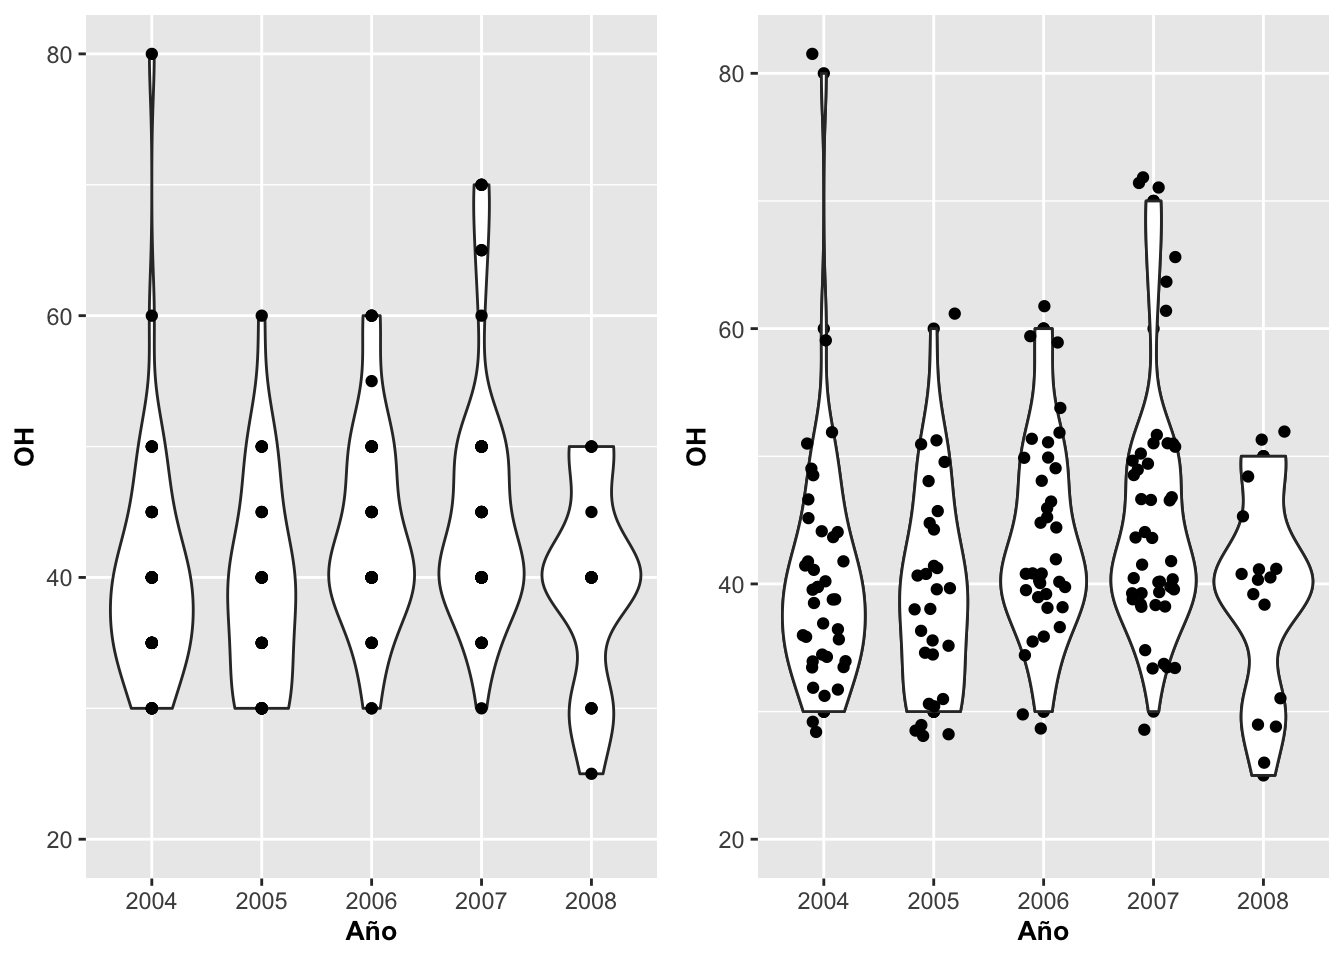
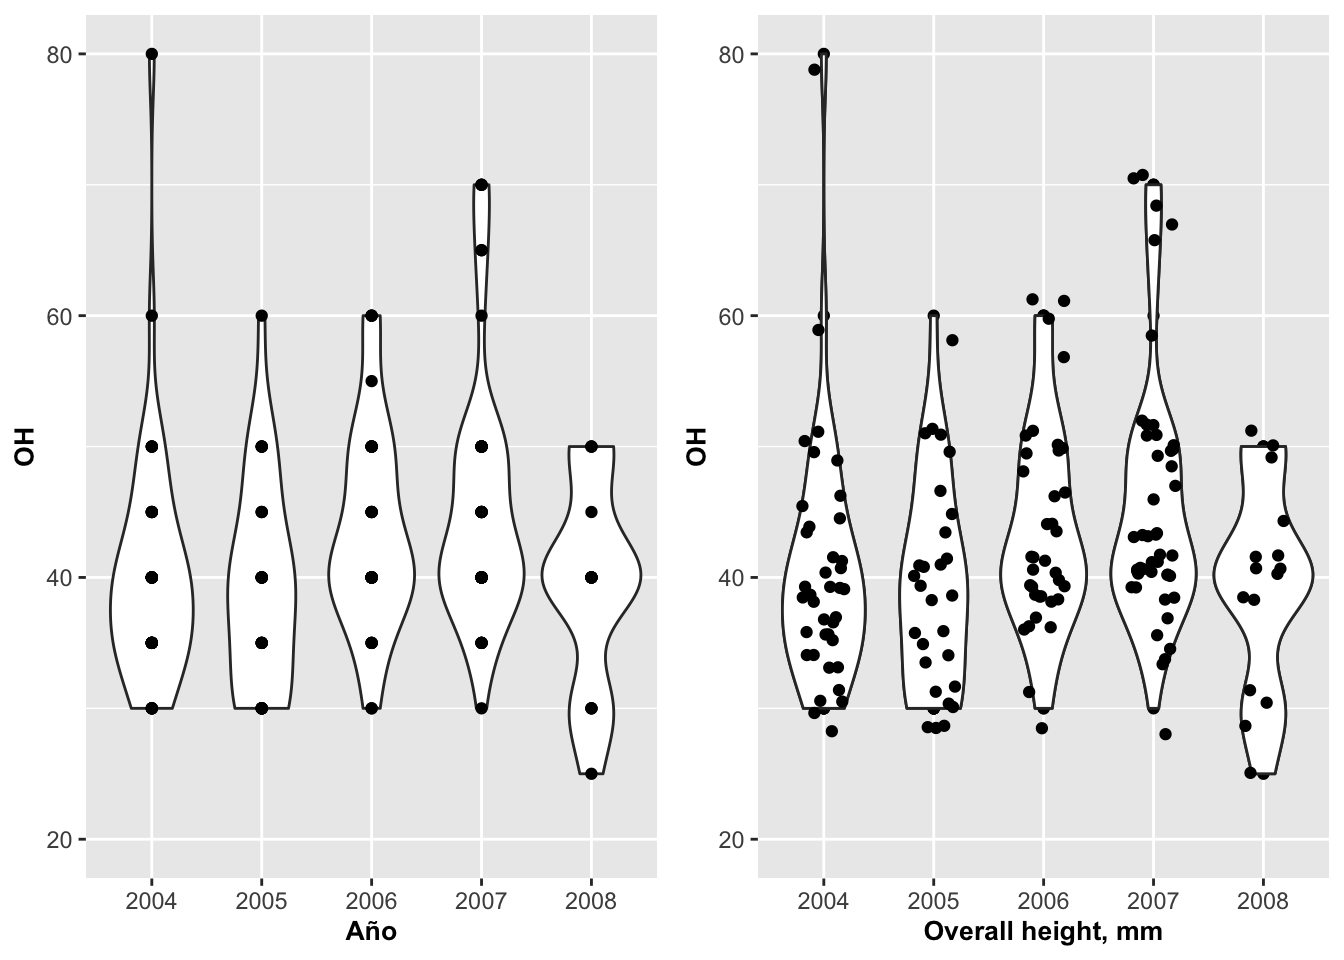
Color violin plot

diff --git a/G8_geom_boxplot_geom_violin.html b/G8_geom_boxplot_geom_violin.html
@@ -569,12 +569,12 @@ div.tocify {
 <span id="cb3-4"><a href="#cb3-4" aria-hidden="true" tabindex="-1"></a><span class="fu">library</span>(gt)</span>
 <span id="cb3-5"><a href="#cb3-5" aria-hidden="true" tabindex="-1"></a>dipodium<span class="ot">=</span><span class="fu">clean_names</span>(dipodium)</span>
 <span id="cb3-6"><a href="#cb3-6" aria-hidden="true" tabindex="-1"></a><span class="fu">gt</span>(<span class="fu">head</span>(dipodium))</span></code></pre></div>
-<div id="uzttgzlvhs" style="overflow-x:auto;overflow-y:auto;width:auto;height:auto;">
+<div id="miciyhmwxw" style="overflow-x:auto;overflow-y:auto;width:auto;height:auto;">
 <style>html {
   font-family: -apple-system, BlinkMacSystemFont, 'Segoe UI', Roboto, Oxygen, Ubuntu, Cantarell, 'Helvetica Neue', 'Fira Sans', 'Droid Sans', Arial, sans-serif;
 }
 
-#uzttgzlvhs .gt_table {
+#miciyhmwxw .gt_table {
   display: table;
   border-collapse: collapse;
   margin-left: auto;
@@ -599,7 +599,7 @@ div.tocify {
   border-left-color: #D3D3D3;
 }
 
-#uzttgzlvhs .gt_heading {
+#miciyhmwxw .gt_heading {
   background-color: #FFFFFF;
   text-align: center;
   border-bottom-color: #FFFFFF;
@@ -611,7 +611,7 @@ div.tocify {
   border-right-color: #D3D3D3;
 }
 
-#uzttgzlvhs .gt_title {
+#miciyhmwxw .gt_title {
   color: #333333;
   font-size: 125%;
   font-weight: initial;
@@ -623,7 +623,7 @@ div.tocify {
   border-bottom-width: 0;
 }
 
-#uzttgzlvhs .gt_subtitle {
+#miciyhmwxw .gt_subtitle {
   color: #333333;
   font-size: 85%;
   font-weight: initial;
@@ -635,13 +635,13 @@ div.tocify {
   border-top-width: 0;
 }
 
-#uzttgzlvhs .gt_bottom_border {
+#miciyhmwxw .gt_bottom_border {
   border-bottom-style: solid;
   border-bottom-width: 2px;
   border-bottom-color: #D3D3D3;
 }
 
-#uzttgzlvhs .gt_col_headings {
+#miciyhmwxw .gt_col_headings {
   border-top-style: solid;
   border-top-width: 2px;
   border-top-color: #D3D3D3;
@@ -656,7 +656,7 @@ div.tocify {
   border-right-color: #D3D3D3;
 }
 
-#uzttgzlvhs .gt_col_heading {
+#miciyhmwxw .gt_col_heading {
   color: #333333;
   background-color: #FFFFFF;
   font-size: 100%;
@@ -676,7 +676,7 @@ div.tocify {
   overflow-x: hidden;
 }
 
-#uzttgzlvhs .gt_column_spanner_outer {
+#miciyhmwxw .gt_column_spanner_outer {
   color: #333333;
   background-color: #FFFFFF;
   font-size: 100%;
@@ -688,15 +688,15 @@ div.tocify {
   padding-right: 4px;
 }
 
-#uzttgzlvhs .gt_column_spanner_outer:first-child {
+#miciyhmwxw .gt_column_spanner_outer:first-child {
   padding-left: 0;
 }
 
-#uzttgzlvhs .gt_column_spanner_outer:last-child {
+#miciyhmwxw .gt_column_spanner_outer:last-child {
   padding-right: 0;
 }
 
-#uzttgzlvhs .gt_column_spanner {
+#miciyhmwxw .gt_column_spanner {
   border-bottom-style: solid;
   border-bottom-width: 2px;
   border-bottom-color: #D3D3D3;
@@ -708,7 +708,7 @@ div.tocify {
   width: 100%;
 }
 
-#uzttgzlvhs .gt_group_heading {
+#miciyhmwxw .gt_group_heading {
   padding-top: 8px;
   padding-bottom: 8px;
   padding-left: 5px;
@@ -733,7 +733,7 @@ div.tocify {
   vertical-align: middle;
 }
 
-#uzttgzlvhs .gt_empty_group_heading {
+#miciyhmwxw .gt_empty_group_heading {
   padding: 0.5px;
   color: #333333;
   background-color: #FFFFFF;
@@ -748,15 +748,15 @@ div.tocify {
   vertical-align: middle;
 }
 
-#uzttgzlvhs .gt_from_md > :first-child {
+#miciyhmwxw .gt_from_md > :first-child {
   margin-top: 0;
 }
 
-#uzttgzlvhs .gt_from_md > :last-child {
+#miciyhmwxw .gt_from_md > :last-child {
   margin-bottom: 0;
 }
 
-#uzttgzlvhs .gt_row {
+#miciyhmwxw .gt_row {
   padding-top: 8px;
   padding-bottom: 8px;
   padding-left: 5px;
@@ -775,7 +775,7 @@ div.tocify {
   overflow-x: hidden;
 }
 
-#uzttgzlvhs .gt_stub {
+#miciyhmwxw .gt_stub {
   color: #333333;
   background-color: #FFFFFF;
   font-size: 100%;
@@ -788,7 +788,7 @@ div.tocify {
   padding-right: 5px;
 }
 
-#uzttgzlvhs .gt_stub_row_group {
+#miciyhmwxw .gt_stub_row_group {
   color: #333333;
   background-color: #FFFFFF;
   font-size: 100%;
@@ -802,11 +802,11 @@ div.tocify {
   vertical-align: top;
 }
 
-#uzttgzlvhs .gt_row_group_first td {
+#miciyhmwxw .gt_row_group_first td {
   border-top-width: 2px;
 }
 
-#uzttgzlvhs .gt_summary_row {
+#miciyhmwxw .gt_summary_row {
   color: #333333;
   background-color: #FFFFFF;
   text-transform: inherit;
@@ -816,16 +816,16 @@ div.tocify {
   padding-right: 5px;
 }
 
-#uzttgzlvhs .gt_first_summary_row {
+#miciyhmwxw .gt_first_summary_row {
   border-top-style: solid;
   border-top-color: #D3D3D3;
 }
 
-#uzttgzlvhs .gt_first_summary_row.thick {
+#miciyhmwxw .gt_first_summary_row.thick {
   border-top-width: 2px;
 }
 
-#uzttgzlvhs .gt_last_summary_row {
+#miciyhmwxw .gt_last_summary_row {
   padding-top: 8px;
   padding-bottom: 8px;
   padding-left: 5px;
@@ -835,7 +835,7 @@ div.tocify {
   border-bottom-color: #D3D3D3;
 }
 
-#uzttgzlvhs .gt_grand_summary_row {
+#miciyhmwxw .gt_grand_summary_row {
   color: #333333;
   background-color: #FFFFFF;
   text-transform: inherit;
@@ -845,7 +845,7 @@ div.tocify {
   padding-right: 5px;
 }
 
-#uzttgzlvhs .gt_first_grand_summary_row {
+#miciyhmwxw .gt_first_grand_summary_row {
   padding-top: 8px;
   padding-bottom: 8px;
   padding-left: 5px;
@@ -855,11 +855,11 @@ div.tocify {
   border-top-color: #D3D3D3;
 }
 
-#uzttgzlvhs .gt_striped {
+#miciyhmwxw .gt_striped {
   background-color: rgba(128, 128, 128, 0.05);
 }
 
-#uzttgzlvhs .gt_table_body {
+#miciyhmwxw .gt_table_body {
   border-top-style: solid;
   border-top-width: 2px;
   border-top-color: #D3D3D3;
@@ -868,7 +868,7 @@ div.tocify {
   border-bottom-color: #D3D3D3;
 }
 
-#uzttgzlvhs .gt_footnotes {
+#miciyhmwxw .gt_footnotes {
   color: #333333;
   background-color: #FFFFFF;
   border-bottom-style: none;
@@ -882,7 +882,7 @@ div.tocify {
   border-right-color: #D3D3D3;
 }
 
-#uzttgzlvhs .gt_footnote {
+#miciyhmwxw .gt_footnote {
   margin: 0px;
   font-size: 90%;
   padding-left: 4px;
@@ -891,7 +891,7 @@ div.tocify {
   padding-right: 5px;
 }
 
-#uzttgzlvhs .gt_sourcenotes {
+#miciyhmwxw .gt_sourcenotes {
   color: #333333;
   background-color: #FFFFFF;
   border-bottom-style: none;
@@ -905,7 +905,7 @@ div.tocify {
   border-right-color: #D3D3D3;
 }
 
-#uzttgzlvhs .gt_sourcenote {
+#miciyhmwxw .gt_sourcenote {
   font-size: 90%;
   padding-top: 4px;
   padding-bottom: 4px;
@@ -913,60 +913,60 @@ div.tocify {
   padding-right: 5px;
 }
 
-#uzttgzlvhs .gt_left {
+#miciyhmwxw .gt_left {
   text-align: left;
 }
 
-#uzttgzlvhs .gt_center {
+#miciyhmwxw .gt_center {
   text-align: center;
 }
 
-#uzttgzlvhs .gt_right {
+#miciyhmwxw .gt_right {
   text-align: right;
   font-variant-numeric: tabular-nums;
 }
 
-#uzttgzlvhs .gt_font_normal {
+#miciyhmwxw .gt_font_normal {
   font-weight: normal;
 }
 
-#uzttgzlvhs .gt_font_bold {
+#miciyhmwxw .gt_font_bold {
   font-weight: bold;
 }
 
-#uzttgzlvhs .gt_font_italic {
+#miciyhmwxw .gt_font_italic {
   font-style: italic;
 }
 
-#uzttgzlvhs .gt_super {
+#miciyhmwxw .gt_super {
   font-size: 65%;
 }
 
-#uzttgzlvhs .gt_footnote_marks {
+#miciyhmwxw .gt_footnote_marks {
   font-style: italic;
   font-weight: normal;
   font-size: 75%;
   vertical-align: 0.4em;
 }
 
-#uzttgzlvhs .gt_asterisk {
+#miciyhmwxw .gt_asterisk {
   font-size: 100%;
   vertical-align: 0;
 }
 
-#uzttgzlvhs .gt_slash_mark {
+#miciyhmwxw .gt_slash_mark {
   font-size: 0.7em;
   line-height: 0.7em;
   vertical-align: 0.15em;
 }
 
-#uzttgzlvhs .gt_fraction_numerator {
+#miciyhmwxw .gt_fraction_numerator {
   font-size: 0.6em;
   line-height: 0.6em;
   vertical-align: 0.45em;
 }
 
-#uzttgzlvhs .gt_fraction_denominator {
+#miciyhmwxw .gt_fraction_denominator {
   font-size: 0.6em;
   line-height: 0.6em;
   vertical-align: -0.05em;
@@ -1245,12 +1245,12 @@ La foto es de Leo Berzins via Flickr
 <span id="cb14-3"><a href="#cb14-3" aria-hidden="true" tabindex="-1"></a>dfnorm<span class="ot">=</span><span class="fu">data.frame</span>(normal_data)</span>
 <span id="cb14-4"><a href="#cb14-4" aria-hidden="true" tabindex="-1"></a><span class="fu">head</span>(dfnorm)</span></code></pre></div>
 <pre><code>##   normal_data
-## 1    3.053600
-## 2    1.363131
-## 3    4.182810
-## 4    1.387284
-## 5    6.037497
-## 6   -1.089903</code></pre>
+## 1    7.511167
+## 2   -4.142828
+## 3   -6.382358
+## 4    3.391156
+## 5    3.019488
+## 6    4.223031</code></pre>
 <div class="sourceCode" id="cb16"><pre class="sourceCode r"><code class="sourceCode r"><span id="cb16-1"><a href="#cb16-1" aria-hidden="true" tabindex="-1"></a><span class="fu">library</span>(ggplot2)</span>
 <span id="cb16-2"><a href="#cb16-2" aria-hidden="true" tabindex="-1"></a><span class="fu">ggplot</span>(dfnorm,<span class="fu">aes</span>(normal_data, <span class="at">x=</span><span class="dv">1</span>))<span class="sc">+</span></span>
 <span id="cb16-3"><a href="#cb16-3" aria-hidden="true" tabindex="-1"></a>  <span class="fu">geom_violin</span>()</span></code></pre></div>
@@ -1276,9 +1276,10 @@ La foto es de Leo Berzins via Flickr
 <span id="cb17-14"><a href="#cb17-14" aria-hidden="true" tabindex="-1"></a>  <span class="fu">annotate</span>(<span class="st">&quot;text&quot;</span>, <span class="at">x=</span><span class="dv">2</span>,<span class="at">y=</span> <span class="dv">20</span>, <span class="at">size=</span><span class="dv">8</span>,</span>
 <span id="cb17-15"><a href="#cb17-15" aria-hidden="true" tabindex="-1"></a>           <span class="at">label=</span><span class="st">&quot;&quot;</span>, <span class="at">na.rm=</span><span class="cn">TRUE</span>)<span class="sc">+</span></span>
 <span id="cb17-16"><a href="#cb17-16" aria-hidden="true" tabindex="-1"></a>  <span class="fu">labs</span>(<span class="at">x=</span><span class="st">&quot;Año&quot;</span>, <span class="at">y=</span><span class="st">&quot;OH&quot;</span>)<span class="sc">+</span></span>
-<span id="cb17-17"><a href="#cb17-17" aria-hidden="true" tabindex="-1"></a>  <span class="fu">theme</span>(<span class="at">axis.title=</span><span class="fu">element_text</span>(<span class="at">size=</span><span class="dv">10</span>,<span class="at">face=</span><span class="st">&quot;bold&quot;</span>))</span>
-<span id="cb17-18"><a href="#cb17-18" aria-hidden="true" tabindex="-1"></a></span>
-<span id="cb17-19"><a href="#cb17-19" aria-hidden="true" tabindex="-1"></a><span class="fu">grid.arrange</span>(violingp, violingv, <span class="at">ncol=</span><span class="dv">2</span>)</span></code></pre></div>
+<span id="cb17-17"><a href="#cb17-17" aria-hidden="true" tabindex="-1"></a>  <span class="fu">theme</span>(<span class="at">axis.title=</span><span class="fu">element_text</span>(<span class="at">size=</span><span class="dv">10</span>,<span class="at">face=</span><span class="st">&quot;bold&quot;</span>))<span class="sc">+</span></span>
+<span id="cb17-18"><a href="#cb17-18" aria-hidden="true" tabindex="-1"></a>  <span class="fu">xlab</span>(<span class="st">&quot;Overall height, mm&quot;</span>)</span>
+<span id="cb17-19"><a href="#cb17-19" aria-hidden="true" tabindex="-1"></a></span>
+<span id="cb17-20"><a href="#cb17-20" aria-hidden="true" tabindex="-1"></a><span class="fu">grid.arrange</span>(violingp, violingv, <span class="at">ncol=</span><span class="dv">2</span>)</span></code></pre></div>
 <p><img src="G8_geom_boxplot_geom_violin_files/figure-html/geomviolin3-1.png" width="672" /></p>
 <hr />
 </div>
@@ -1375,7 +1376,7 @@ La foto es de Leo Berzins via Flickr
 <ol start="2" style="list-style-type: decimal">
 <li>Preparar un gráfico de violín. Utiliza los datos <strong>CypripediumA</strong> en el paquete <strong>ggversa</strong>. Utiliza la columna <strong>Lip_length_mm</strong>, que es el largo de labelo de la orquidea <em>Cypripedium acaule</em>. La especies de orquídea vive en el norte de Canada en bosques cerados (Forest) o pantanos (Wetlands). Utiliza la columna <strong>Forest_Wetland</strong> para crear una caja de violín por cada sitio de muestreo. Poner color a los dos grupos. Evaluando la distribución de los datos sobre el tamaño del labello, Ud. cree que la distribución de tamaño es igual?
 <ul>
-<li>Salva el gráfico en formato .png y subirla a Edmodo</li>
+<li>Salva el gráfico en formato .png y subirla a MSteam</li>
 </ul></li>
 </ol>
 <div class="figure">
